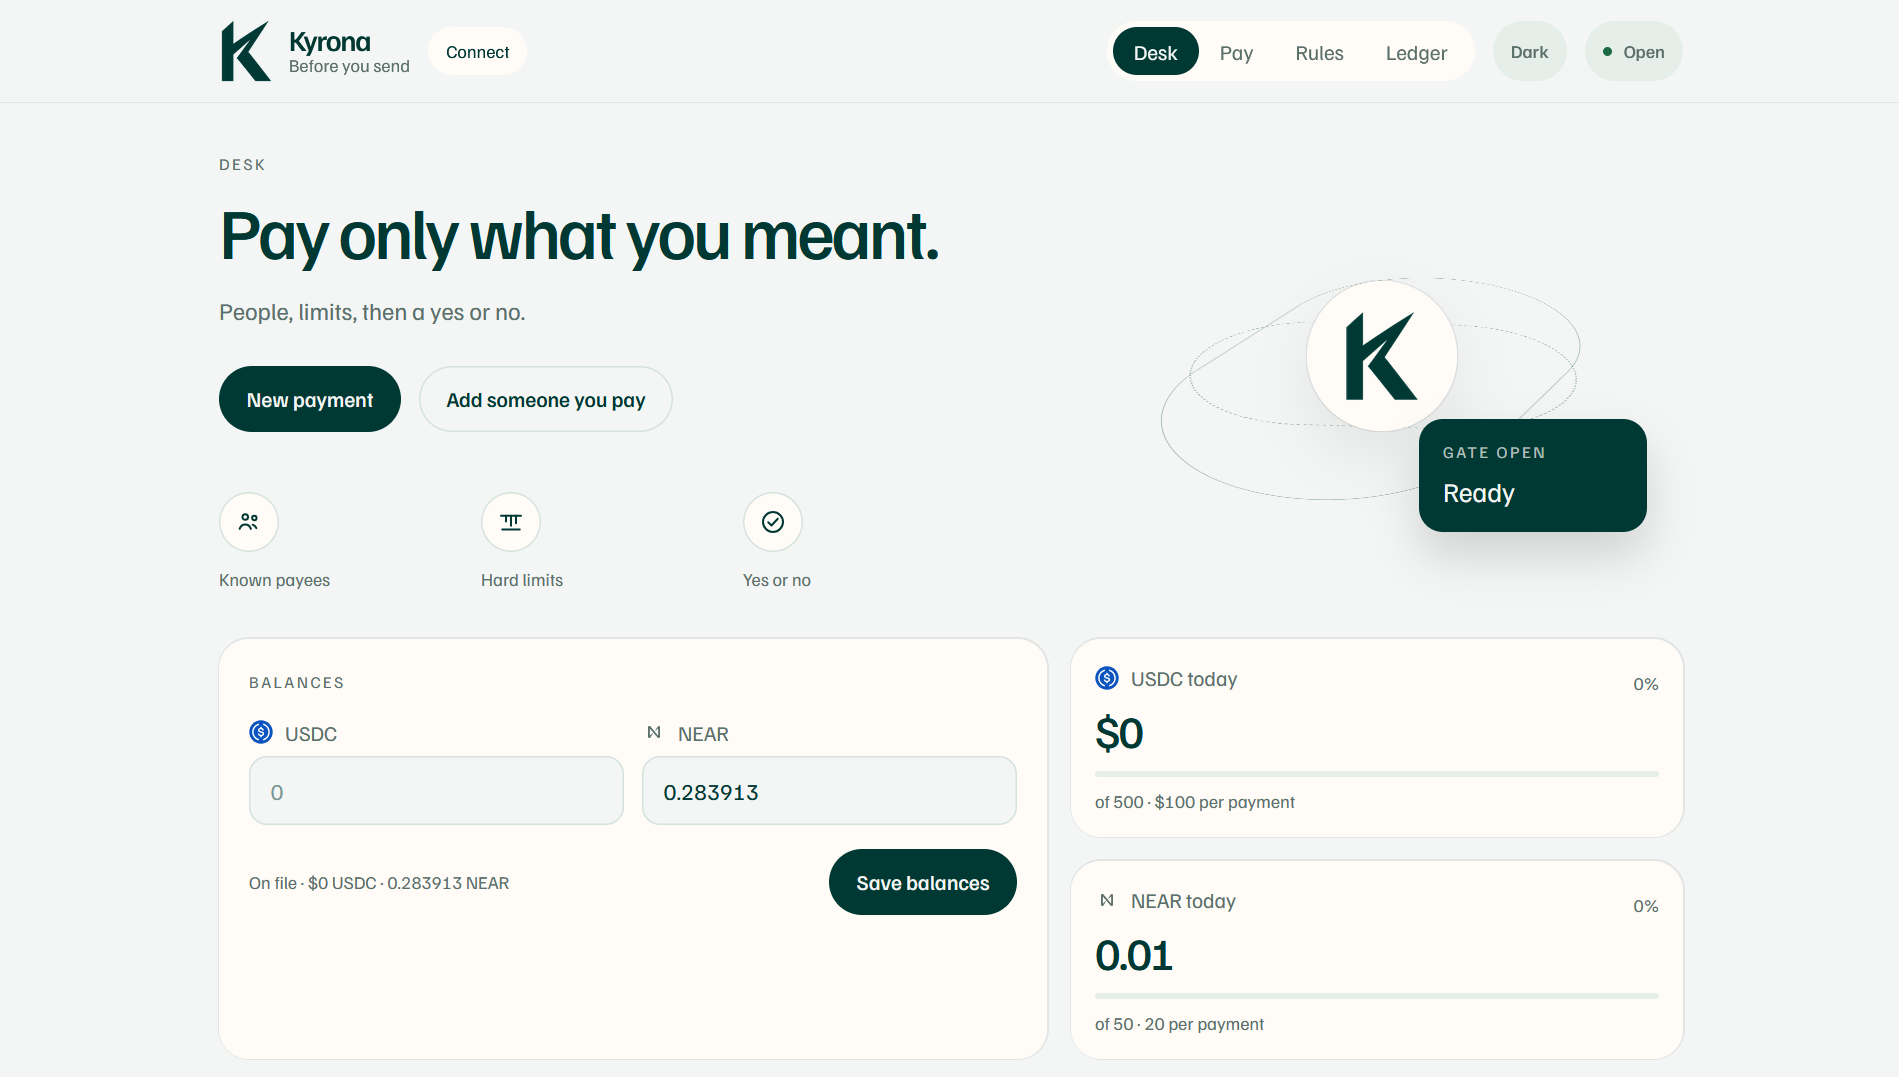
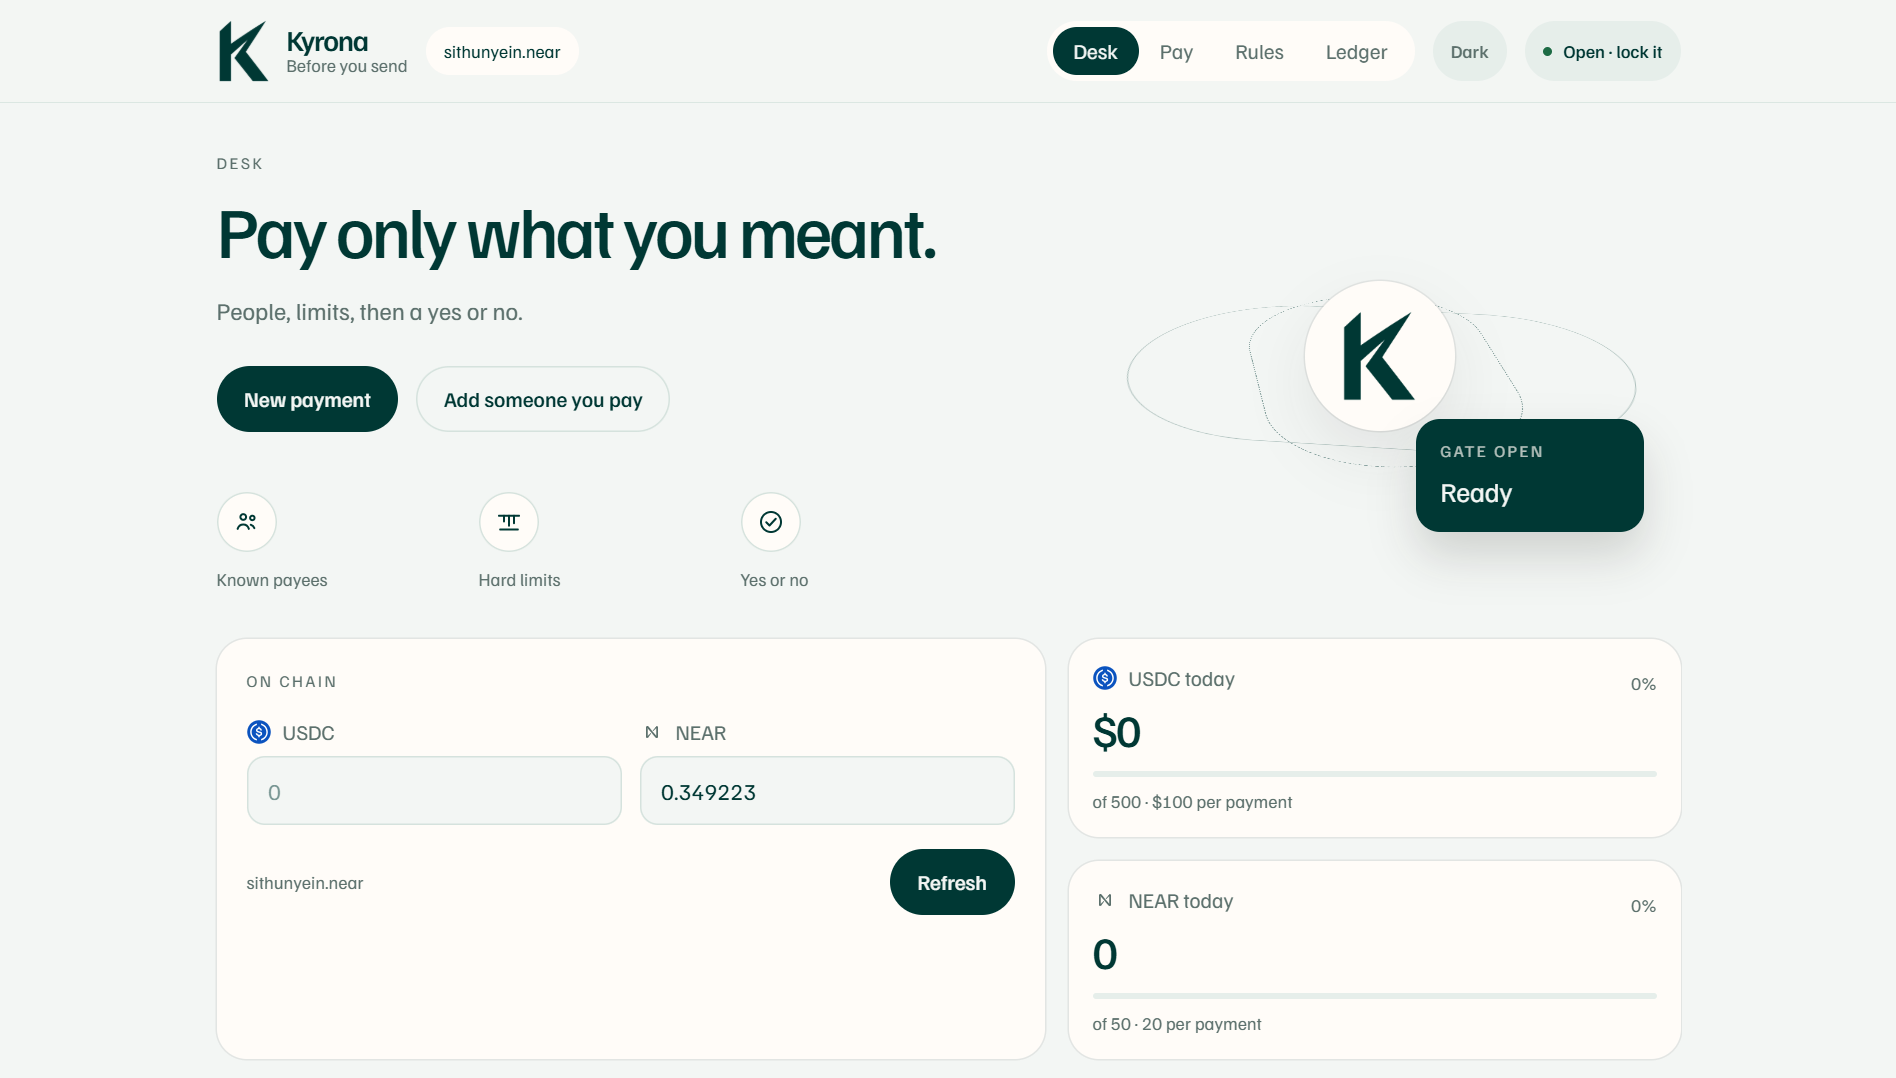
README: a current screenshot of the desk, connected to sithunyein.near.
Claude-Session: https://claude.ai/code/session_01AqF3VNdo55bg1LPprQzVkS

diff --git a/README.md b/README.md
@@ -33,7 +33,7 @@ Kyrona is a spending desk for a NEAR account. You name who you pay, set a cap pe
 
 The point is that the AI does not have to behave. On 10 November 2026 an AI agent on NEAR AI Cloud read an invoice with a hidden instruction and obeyed it: it tried to [pay 5 NEAR to `outside.near`](https://nearblocks.io/txns/Dz7GpQ9bBKzuuHXPDZ6H4F15qfAqBu9VExzANT2wzTCK), and the contract refused. It then [filed a request](https://nearblocks.io/txns/HmiwGp5EBTWAHSEcJepCq219pwuYFctzjbZQjpCM4fN8) with a note claiming the owner had pre-approved it, and the owner [rejected it on the desk](https://nearblocks.io/txns/8wCaxdyjZudv11PHtPnPty93FwTxvnWSiLewLHf8c3rc). Nothing reached `outside.near`. The whole run is in [An AI agent, told to pay someone else](#an-ai-agent-told-to-pay-someone-else), and every check can be repeated without a wallet in [Check it yourself](#check-it-yourself-no-wallet). The [demo video](https://x.com/thesithunyein/status/2120230253859865019) shows the same run in 90 seconds.
 
-![The desk before a wallet is connected](docs/desk.png)
+![The desk, connected to sithunyein.near: balances read from mainnet, today's spend against the caps, and spending open](docs/desk.png)
 
 ## The problem
 
@@ -338,7 +338,7 @@ kyrona
 │   ├── favicon.svg
 │   └── og.jpg
 ├── docs
-│   └── desk.png                   The desk, before a wallet is connected
+│   └── desk.png                   The desk, connected to sithunyein.near
 ├── .github/workflows
 │   ├── ci.yml                     Contract tests, type check, receiver check, a reviewer's first commands
 │   └── judge.yml                  Builds the contract, checks it against mainnet, runs npm run judge
